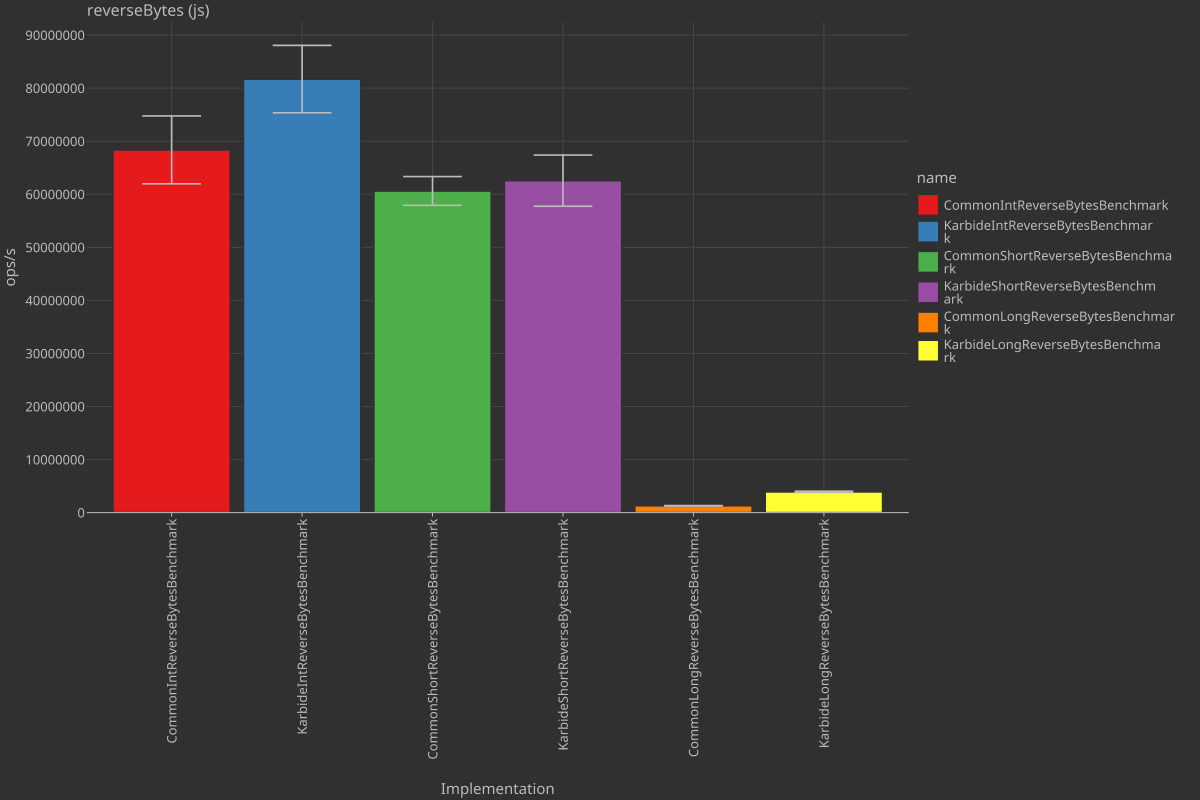
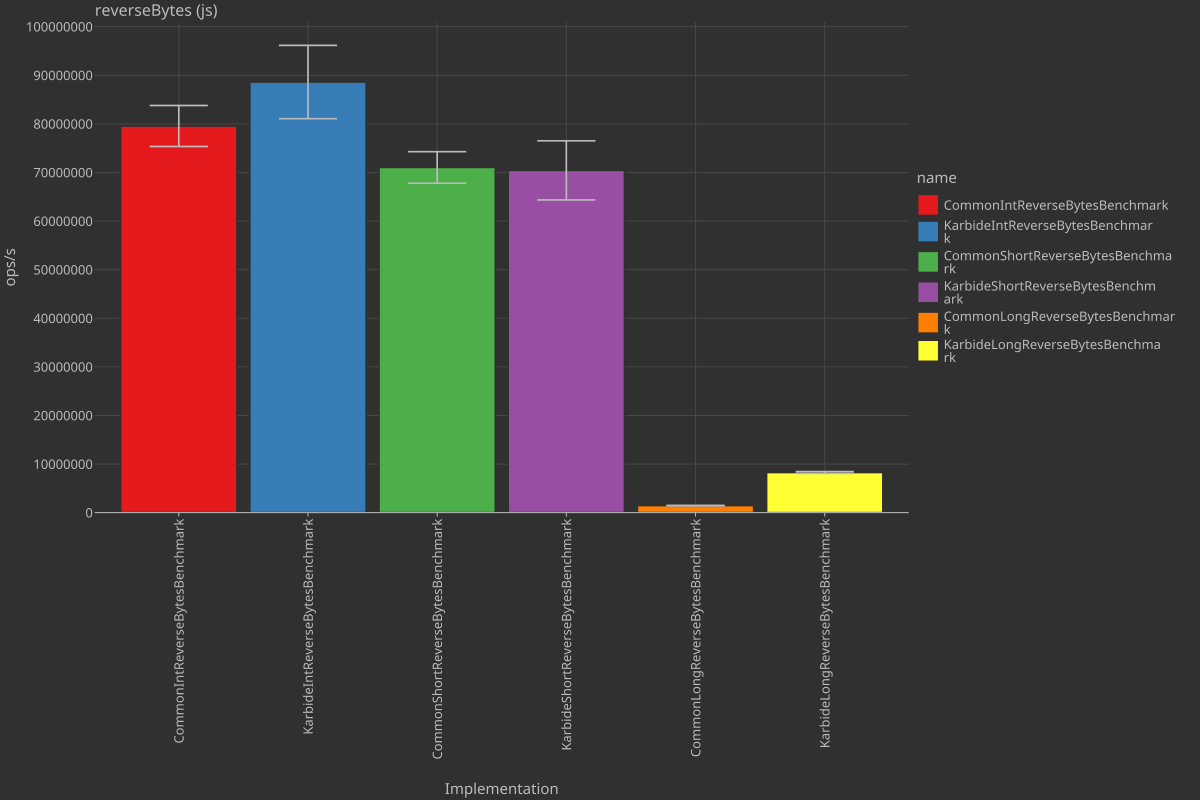
Implement intrinsic version of reverseBytes for Long on JS

diff --git a/karbide-core/src/jsMain/kotlin/dev/karmakrafts/karbide/ByteUtils.kt b/karbide-core/src/jsMain/kotlin/dev/karmakrafts/karbide/ByteUtils.kt
@@ -38,9 +38,18 @@ private external fun reverseBytesImpl(x: Int): Int
 
 actual fun Int.reverseBytes(): Int = reverseBytesImpl(this)
 
-actual fun Long.reverseBytes(): Long {
-    // TODO: Until BigInt support is stable in Kotlin/JS, we increase throughput by using two bswap32 calls
-    val lo = toInt().reverseBytes()
-    val hi = (this ushr 32).toInt().reverseBytes()
-    return (lo.toLong() shl 32) or (hi.toLong() and 0xFFFFFFFF)
+@JsFun(
+    """
+(x) => {
+    const lo = x.low_1 | 0;
+    const hi = x.high_1 | 0;
+    return new x.constructor(
+        ((hi & 0xFF) << 24) | ((hi & 0xFF00) << 8) | ((hi >>> 8) & 0xFF00) | ((hi >>> 24) & 0xFF),
+        ((lo & 0xFF) << 24) | ((lo & 0xFF00) << 8) | ((lo >>> 8) & 0xFF00) | ((lo >>> 24) & 0xFF)
+    );
 }
+"""
+)
+private external fun reverseBytesImpl(x: Long): Long
+
+actual fun Long.reverseBytes(): Long = reverseBytesImpl(this)